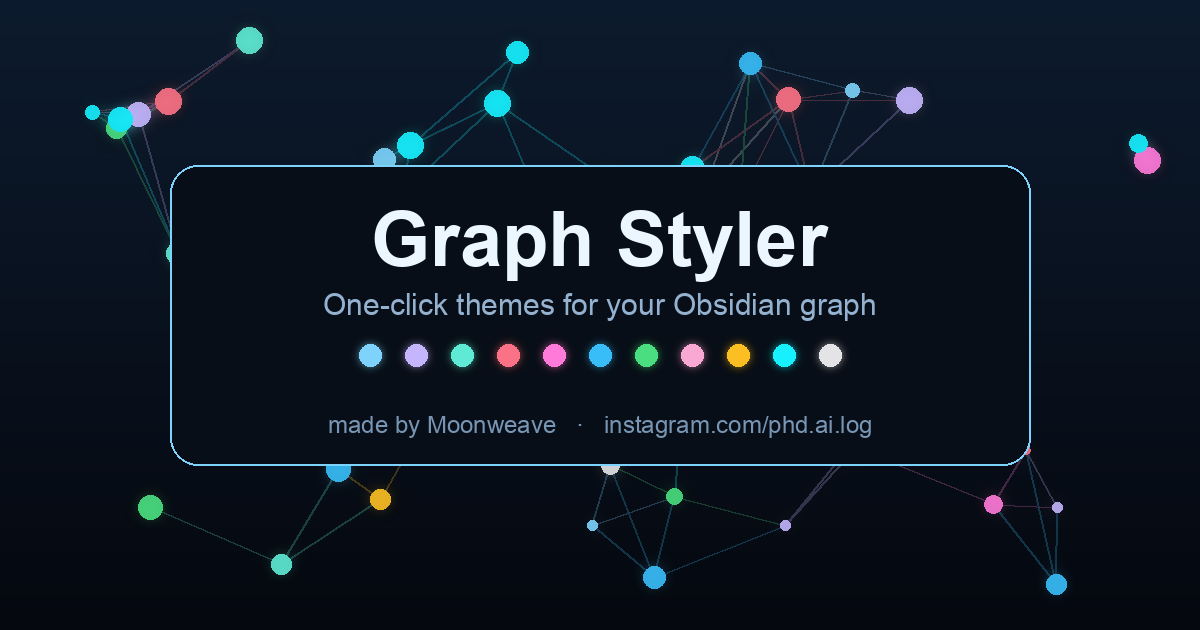
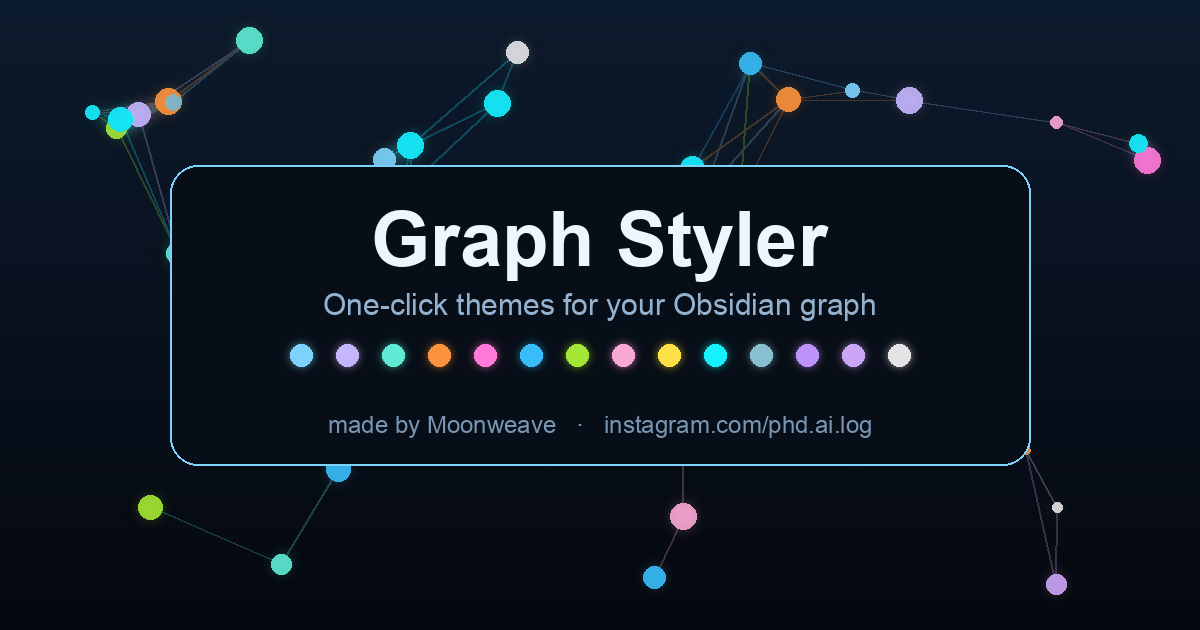
Design pass on presets: 11 → 14, fix low-distinction palettes
- Fix Forest & Gold (4 near-identical hues → distinguishable so folder
  colors actually read).
- Tighten Sunset (spread hues) and Cyberpunk (drop harsh yellow → purple).
- Add recognizable named themes: Nord, Dracula, Catppuccin.
- Update README EN/KO preset lists and regenerate hero banner (14 swatches).

diff --git a/main.js b/main.js
@@ -149,7 +149,7 @@ const PRESETS = {
       unresolved: '#10241f', filter: 'brightness(1.3) contrast(1.12) saturate(1.5)' }),
 
   sunset: P('sunset', 'Sunset', '🌅',
-    ['#fb923c', '#f472b6', '#fbbf24', '#fca5a5'], { node: 2.3, repel: 16, dist: 135 },
+    ['#fb923c', '#ec4899', '#fbbf24', '#f43f5e'], { node: 2.3, repel: 16, dist: 135 },
     ['rgba(59,31,43,0.92)', 'rgba(42,20,32,0.97)', '#160a10'],
     { circle: '#fdba74', fill: '#fb7185', tag: '#f9a8d4', line: '#7c3f52', text: '#ffe8d6',
       unresolved: '#2a1c22', filter: 'brightness(1.25) contrast(1.1) saturate(1.45)' }),
@@ -167,10 +167,10 @@ const PRESETS = {
       unresolved: '#0c2030', filter: 'brightness(1.2) contrast(1.12) saturate(1.45)' }),
 
   forest: P('forest', 'Forest', '🌲',
-    ['#a3e635', '#4ade80', '#34d399', '#bef264'],
+    ['#a3e635', '#22c55e', '#2dd4bf', '#facc15'],
     { node: 2.0, repel: 13, dist: 115, center: 0.18, linkS: 0.35 },
     ['rgba(17,36,15,0.92)', 'rgba(12,26,11,0.97)', '#060d06'],
-    { circle: '#a3e635', fill: '#4ade80', tag: '#bef264', line: '#2f5a2a', text: '#e6ffd6',
+    { circle: '#a3e635', fill: '#22c55e', tag: '#facc15', line: '#2f5a2a', text: '#e6ffd6',
       unresolved: '#16240f', filter: 'brightness(1.2) contrast(1.1) saturate(1.4)' }),
 
   candy: P('candy', 'Candy', '🍬',
@@ -181,16 +181,35 @@ const PRESETS = {
       unresolved: '#241f2e', filter: 'brightness(1.25) contrast(1.05) saturate(1.35)' }),
 
   gold: P('gold', 'Gold', '✨',
-    ['#fcd34d', '#fbbf24', '#f59e0b', '#fde68a'], { node: 2.5, repel: 16, dist: 140 },
+    ['#fde047', '#fb923c', '#fda4af', '#fef3c7'], { node: 2.5, repel: 16, dist: 140 },
     ['rgba(36,27,8,0.92)', 'rgba(24,18,10,0.97)', '#0c0904'],
-    { circle: '#fcd34d', fill: '#fbbf24', tag: '#fde68a', line: '#6b5320', text: '#fff6dc',
+    { circle: '#fde047', fill: '#fb923c', tag: '#fda4af', line: '#6b5320', text: '#fff6dc',
       unresolved: '#241b08', filter: 'brightness(1.28) contrast(1.15) saturate(1.4)' }),
 
   cyber: P('cyber', 'Cyberpunk', '👾',
-    ['#39ff14', '#ff2bd6', '#16f0ff', '#fdff3a'], { node: 2.4, repel: 18, dist: 150 },
+    ['#39ff14', '#ff2bd6', '#16f0ff', '#a855f7'], { node: 2.4, repel: 18, dist: 150 },
     ['rgba(0,16,5,0.95)', 'rgba(0,10,8,0.98)', '#000000'],
     { circle: '#16f0ff', fill: '#39ff14', tag: '#ff2bd6', line: '#0c5a3a', text: '#d8ffe8',
       unresolved: '#07140d', filter: 'brightness(1.4) contrast(1.25) saturate(1.7)' }),
+
+  nord: P('nord', 'Nord', '❄️',
+    ['#88c0d0', '#81a1c1', '#a3be8c', '#b48ead'],
+    { node: 2.0, repel: 16, dist: 145, fade: 1.3 },
+    ['rgba(46,52,64,0.92)', 'rgba(40,46,58,0.97)', '#21262f'],
+    { circle: '#88c0d0', fill: '#a3be8c', tag: '#b48ead', line: '#434c5e', text: '#e5e9f0',
+      unresolved: '#3b4252', filter: 'brightness(1.12) contrast(1.05) saturate(1.15)' }),
+
+  dracula: P('dracula', 'Dracula', '🧛',
+    ['#bd93f9', '#ff79c6', '#50fa7b', '#8be9fd'], { node: 2.2, repel: 17, dist: 150 },
+    ['rgba(40,42,54,0.92)', 'rgba(30,31,42,0.97)', '#191a21'],
+    { circle: '#bd93f9', fill: '#50fa7b', tag: '#ff79c6', line: '#44475a', text: '#f8f8f2',
+      unresolved: '#383a4a', filter: 'brightness(1.18) contrast(1.08) saturate(1.3)' }),
+
+  catppuccin: P('catppuccin', 'Catppuccin', '🐈',
+    ['#cba6f7', '#f5c2e7', '#a6e3a1', '#89dceb'], { node: 2.1, repel: 16, dist: 145 },
+    ['rgba(49,50,68,0.92)', 'rgba(30,30,46,0.97)', '#181825'],
+    { circle: '#89dceb', fill: '#a6e3a1', tag: '#f5c2e7', line: '#45475a', text: '#cdd6f4',
+      unresolved: '#313244', filter: 'brightness(1.15) contrast(1.05) saturate(1.2)' }),
 
   mono: P('mono', 'Mono', '⚪',
     [], { tags: false, node: 1.6, repel: 12, dist: 100, center: 0.2, linkS: 0.4, fade: 1.0, line: 0.2 },

diff --git a/README.ko.md b/README.ko.md
@@ -11,7 +11,7 @@
 옵시디언 그래프는 스크린샷이 정말 예쁘게 나오죠 — 근데 그렇게 만들려면 색 그룹, forces 슬라이더, CSS 스니펫을 다 뒤져야 합니다. Graph Styler는 그걸 클릭 한 번으로. *그래프계 Canva 템플릿*이라고 보면 됩니다.
 
 ## 프리셋
-⚡ Neon · 🌌 Galaxy · 🌠 Aurora · 🌅 Sunset · 🌴 Vaporwave · 🌊 Ocean · 🌲 Forest · 🍬 Candy · ✨ Gold · 👾 Cyberpunk · ⚪ Mono
+⚡ Neon · 🌌 Galaxy · 🌠 Aurora · 🌅 Sunset · 🌴 Vaporwave · 🌊 Ocean · 🌲 Forest · 🍬 Candy · ✨ Gold · 👾 Cyberpunk · ❄️ Nord · 🧛 Dracula · 🐈 Catppuccin · ⚪ Mono
 
 각 프리셋이 노드/그룹 색 + 글로우 CSS + 무드에 맞춘 forces·크기 값을 한꺼번에 적용합니다.
 

diff --git a/README.md b/README.md
@@ -11,7 +11,7 @@ Made by **[Moonweave](https://www.instagram.com/phd.ai.log/)**.
 Obsidian's graph looks amazing in screenshots — but getting there means digging through color groups, force sliders, and CSS snippets. Graph Styler turns that into a single click. Think *Canva templates, but for your graph*.
 
 ## Presets
-⚡ Neon · 🌌 Galaxy · 🌠 Aurora · 🌅 Sunset · 🌴 Vaporwave · 🌊 Ocean · 🌲 Forest · 🍬 Candy · ✨ Gold · 👾 Cyberpunk · ⚪ Mono
+⚡ Neon · 🌌 Galaxy · 🌠 Aurora · 🌅 Sunset · 🌴 Vaporwave · 🌊 Ocean · 🌲 Forest · 🍬 Candy · ✨ Gold · 👾 Cyberpunk · ❄️ Nord · 🧛 Dracula · 🐈 Catppuccin · ⚪ Mono
 
 Each preset applies node/group colors, a glow CSS snippet, and force/size values tuned to the mood.
 